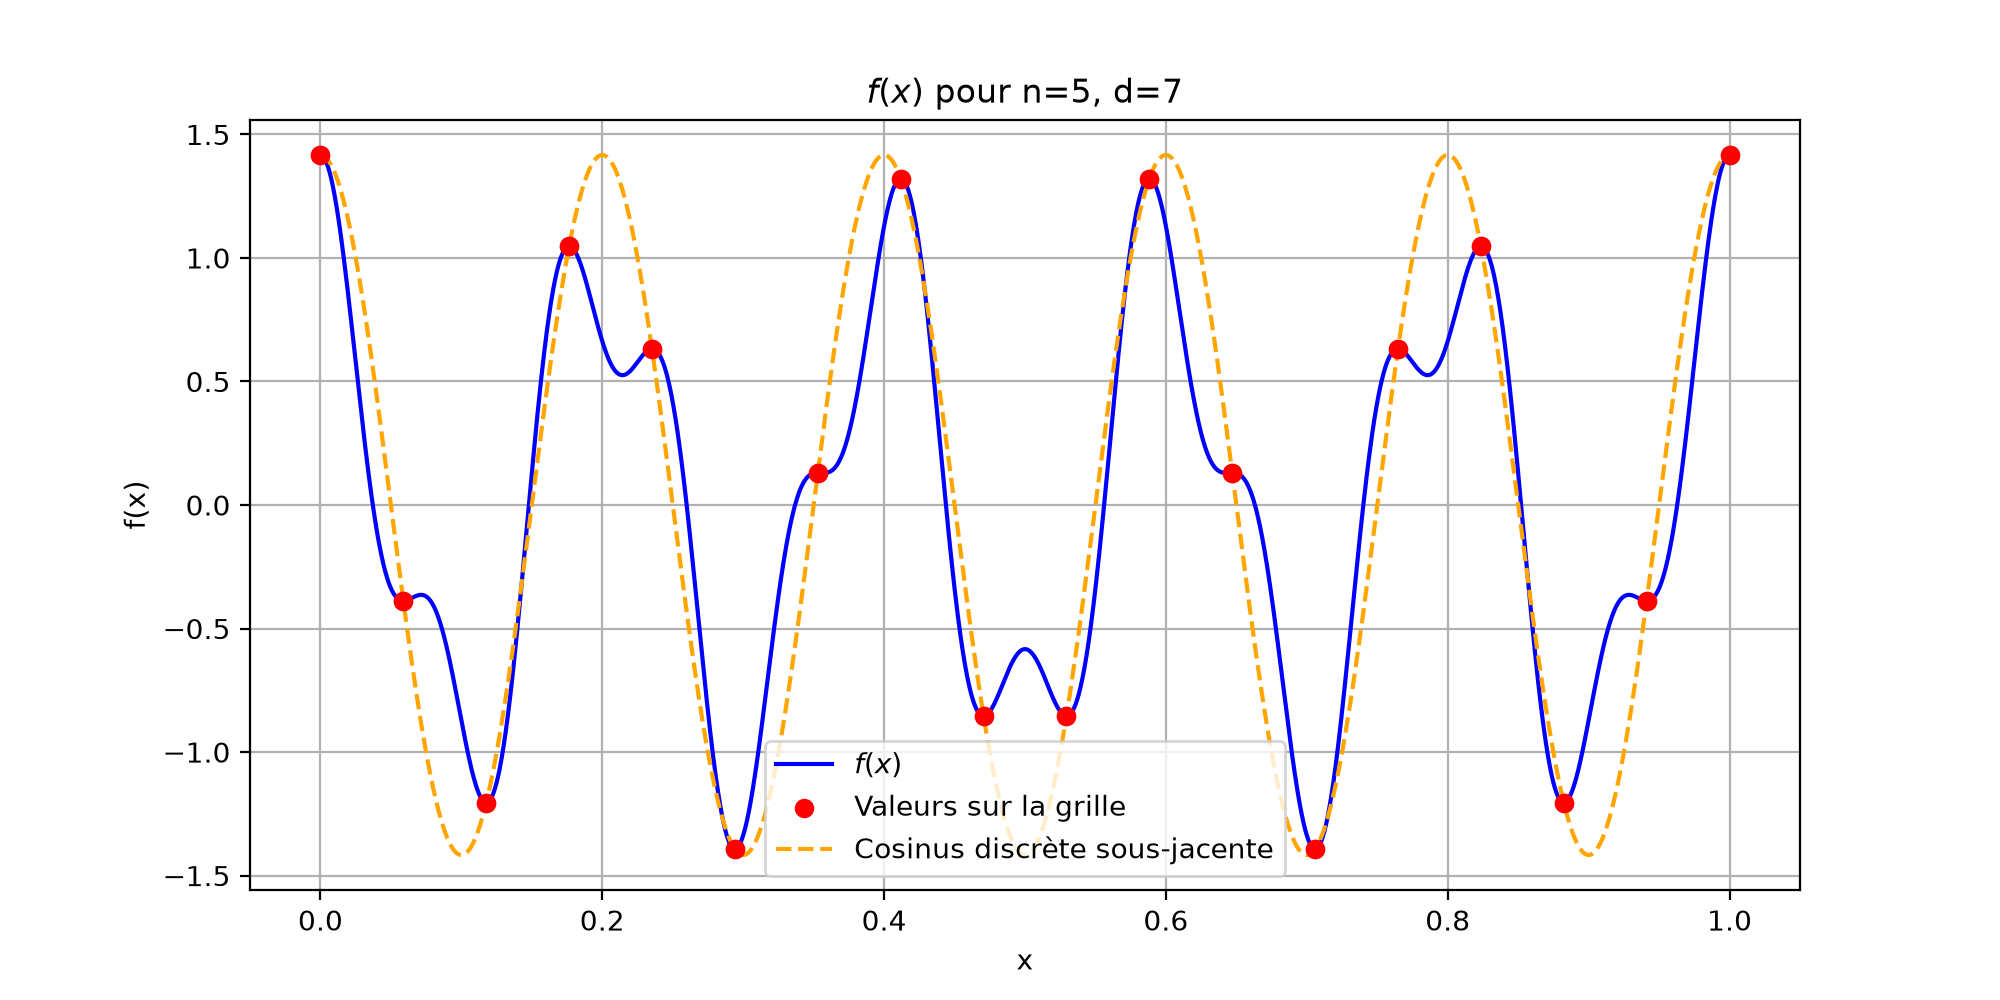
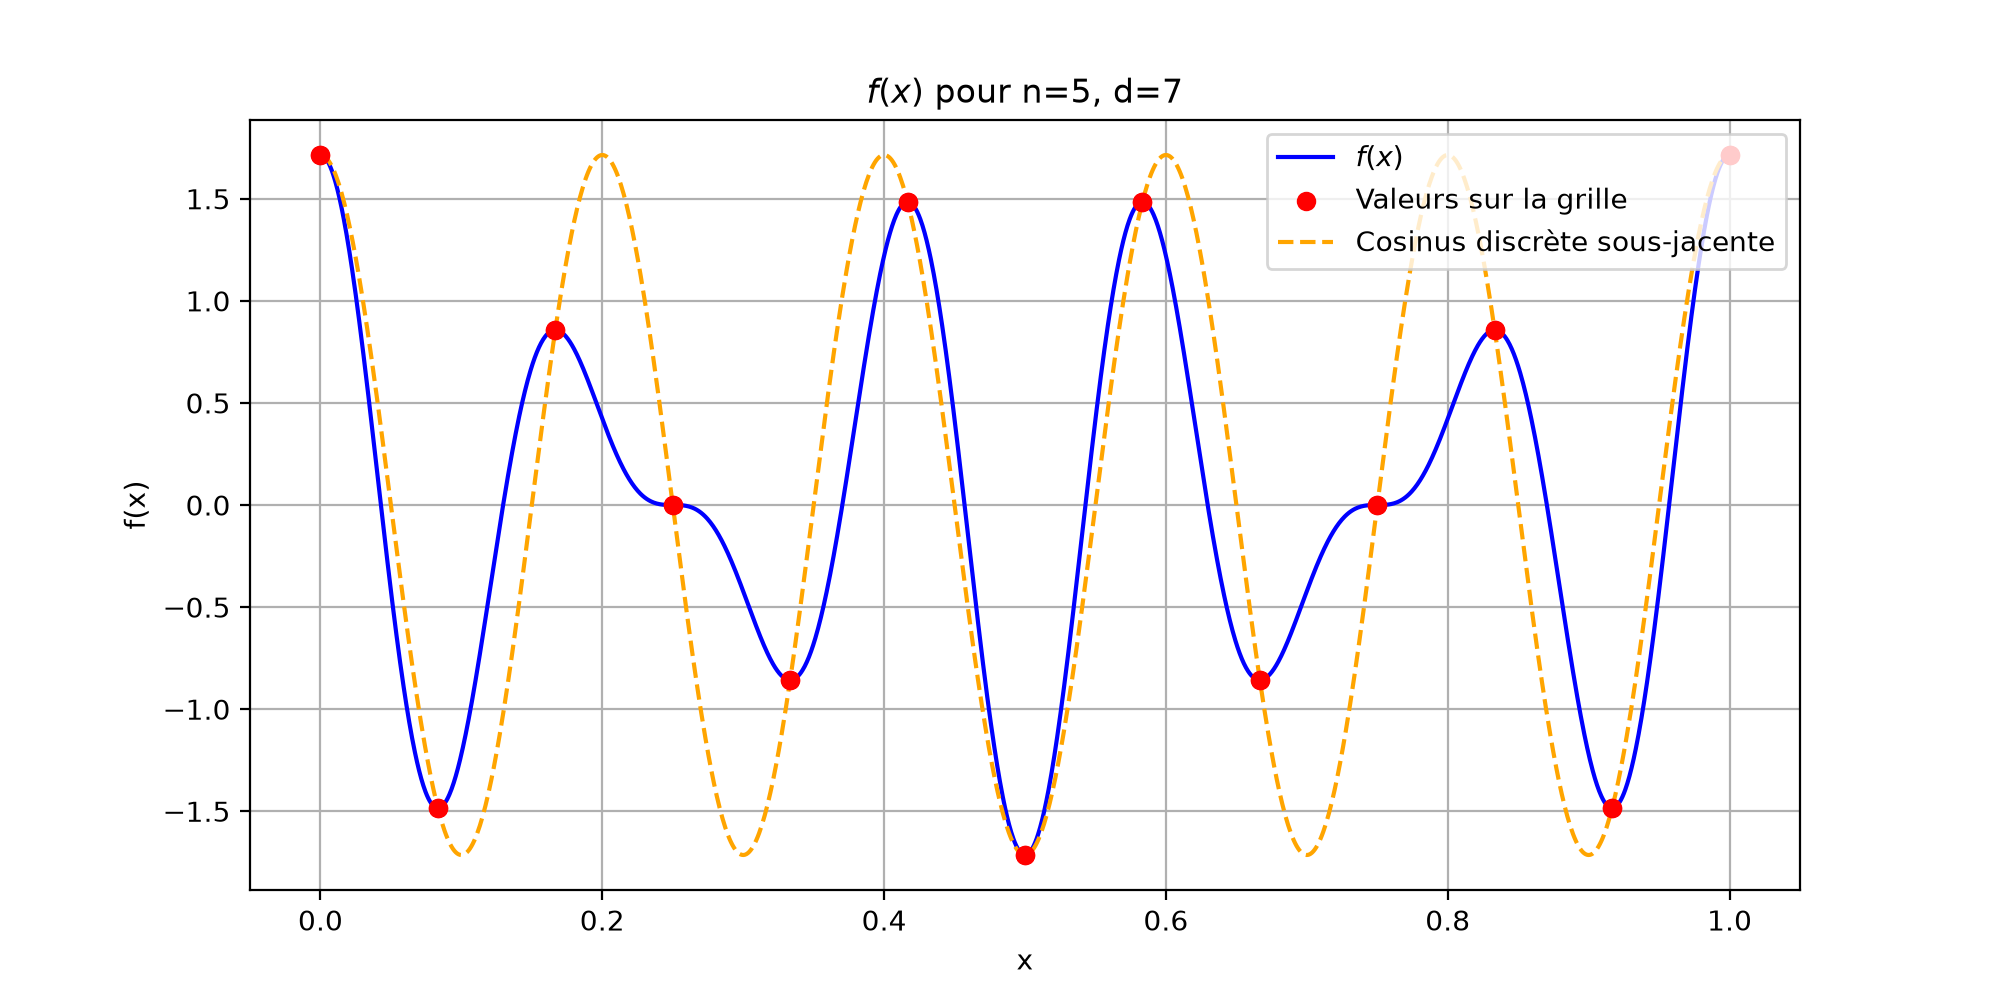
Add interactive selector curves notebook

diff --git a/README.md b/README.md
@@ -26,7 +26,7 @@ a symmetric pitchfork and produces a reflected pair of endpoint selections.
 | [`main.typ`](main.typ) | Entry point for the paper |
 | `00-abstract.typ`–`08-conclusion.typ` | Paper sections |
 | [`Figures/`](Figures/) | Curated figures used by the Typst paper |
-| [`python/notebooks/paper_plot_examples.ipynb`](python/notebooks/paper_plot_examples.ipynb) | Interactive, proof-free visual guide to the paper |
+| [`python/notebooks/`](python/notebooks/) | Interactive visual guides to the paper and its further steps |
 | [`python/scripts/`](python/scripts/) | Exploratory and figure-generation scripts |
 | [`python/figures/`](python/figures/) | Figures generated by the Python code |
 | [`further_steps/`](further_steps/) | Supplementary notes and possible extensions |
@@ -74,20 +74,25 @@ This creates `main.pdf`. During editing, Typst can rebuild it automatically:
 typst watch main.typ
 ```
 
-## Explore the notebook
+## Explore the notebooks
 
-Open
-[`python/notebooks/paper_plot_examples.ipynb`](python/notebooks/paper_plot_examples.ipynb),
-select the virtual environment as its Python kernel, and run all cells from the
-top. The controls for $n$, $d$, and $k$ redraw the examples in the
-notebook; choose coprime values with $1<n<d$. The main examples use odd
-$n$, while the pitchfork example intentionally advances $n$ in even
-steps.
+The repository currently contains two interactive guides:
+
+- [`paper_plot_examples.ipynb`](python/notebooks/paper_plot_examples.ipynb)
+  presents the main paper's line of thought without proofs.
+- [`selector_curves_and_triggering.ipynb`](python/notebooks/selector_curves_and_triggering.ipynb)
+  presents the selector curves and provides a live explorer backed by
+  `T_k(x).py`.
+
+Open a notebook, select the virtual environment as its Python kernel, and run
+all cells from the top. The controls for $n$, $d$, and $k$ redraw the relevant
+examples; choose coprime values with $1<n<d$. The main examples use odd $n$,
+while the pitchfork example intentionally advances $n$ in even steps.
 
 To start JupyterLab from the repository root:
 
 ```sh
-jupyter lab python/notebooks/paper_plot_examples.ipynb
+jupyter lab python/notebooks
 ```
 
 ## Run individual plots
